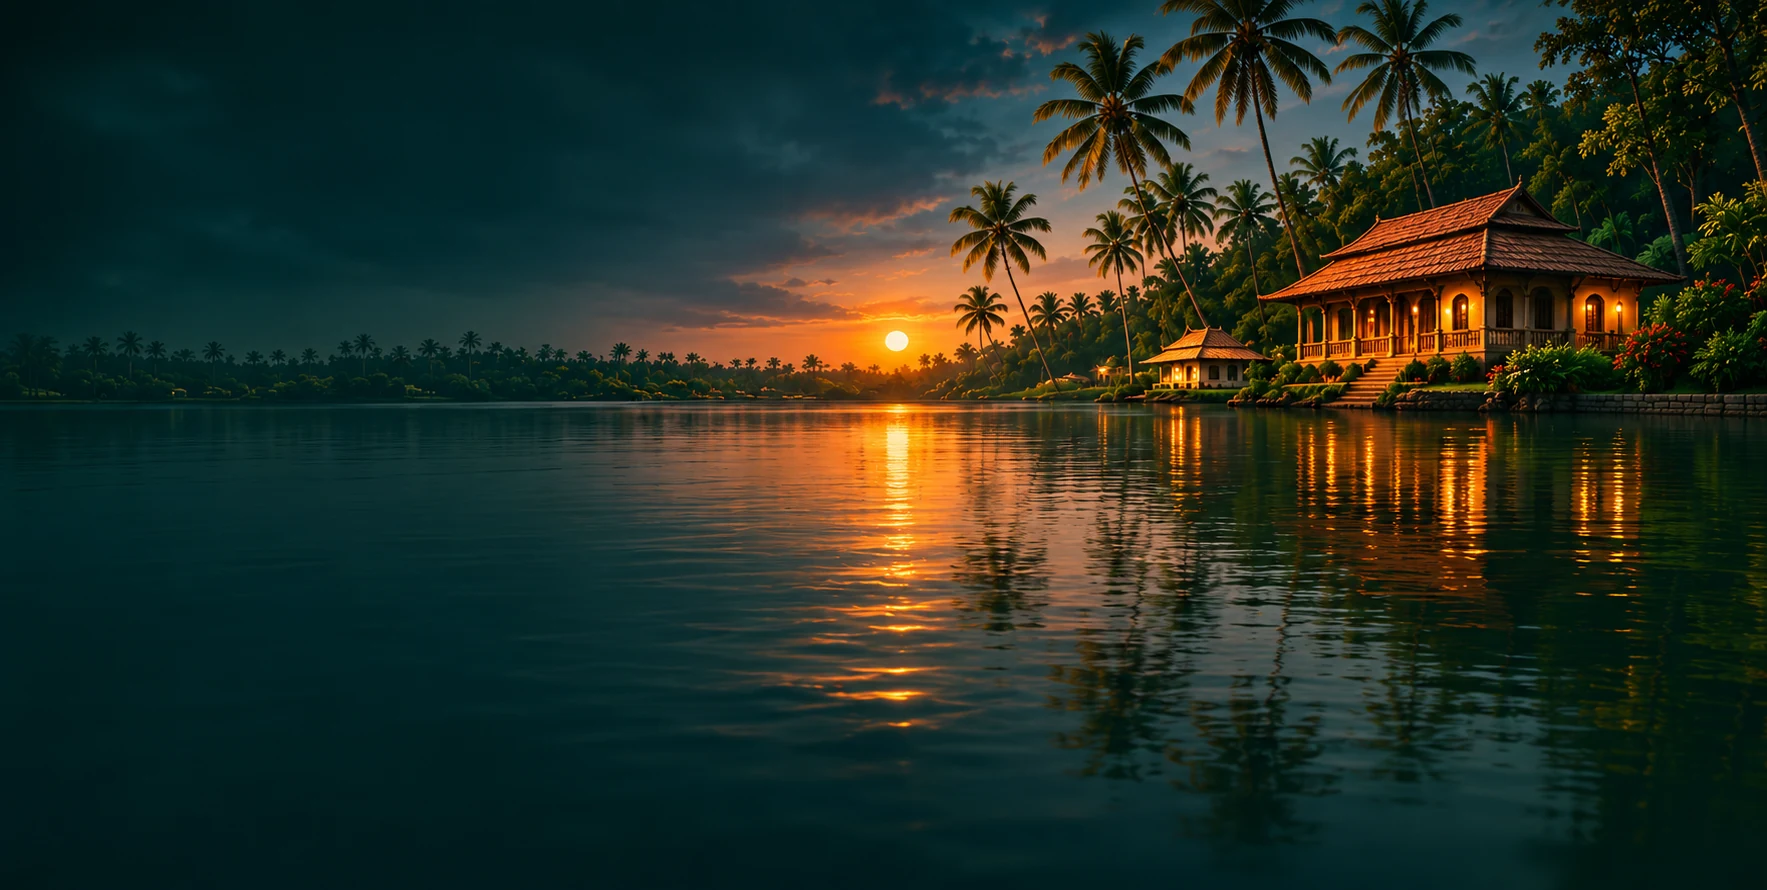
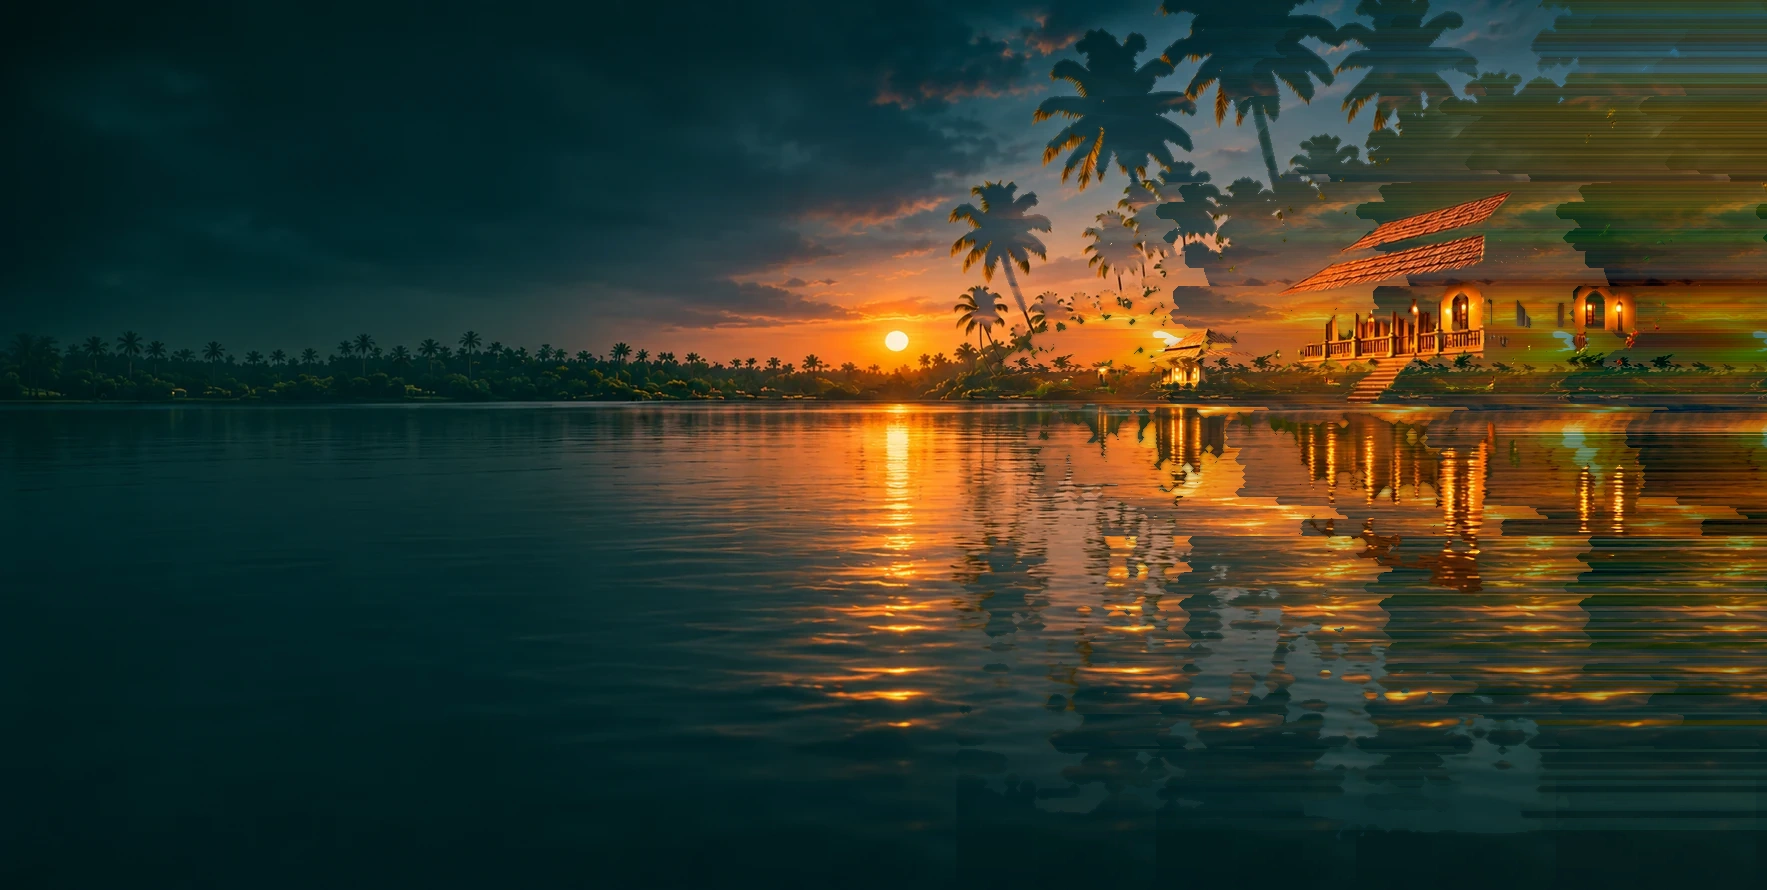
feat(hero): illuminate and extend Kerala sunset backwaters background behind Kathakali

Changed region(s): [[0.5291, 0.0, 1.0, 0.9404]]

diff --git a/src/app/hero-kerala.css b/src/app/hero-kerala.css
@@ -42,8 +42,9 @@
   z-index: 1;
   background:
     url(/mudra/depth-sky.webp) 50% 50%/cover no-repeat,
-    radial-gradient(circle at 50% 38%, #fff6d0 0 .6%, #ffb347 1.4%, rgba(255, 120, 30, .55) 7%, transparent 28%),
-    linear-gradient(180deg, #071a22 0, #0b2a33 28%, #6a3a1c 38%, #0a2a30 44%, #082127 70%, #051519 100%);
+    radial-gradient(ellipse 70% 55% at 60% 40%, rgba(255, 230, 160, .35) 0%, rgba(255, 150, 50, .22) 30%, transparent 65%),
+    radial-gradient(circle at 51% 38%, #fff6d0 0 .6%, #ffb347 1.4%, rgba(255, 120, 30, .55) 7%, transparent 28%),
+    linear-gradient(180deg, #091e26 0%, #102e37 25%, #6a3a1c 38%, #14323a 46%, #091f26 72%, #051519 100%);
   transform: translate3d(calc(var(--mx) * -12px), calc(var(--my) * -8px + var(--ksy, 0) * .12px), 0) scale(1.04);
   animation: none !important;
 }
@@ -52,16 +53,18 @@
   inset: 0;
   z-index: 2;
   background:
-    linear-gradient(90deg, rgba(3, 16, 19, .88) 0, rgba(3, 16, 19, .58) 32%, rgba(3, 16, 19, 0) 58%),
-    linear-gradient(180deg, rgba(3, 12, 15, .55), transparent 22%);
+    linear-gradient(90deg, rgba(3, 16, 19, .88) 0, rgba(3, 16, 19, .55) 28%, transparent 52%),
+    linear-gradient(180deg, rgba(3, 12, 15, .45) 0%, transparent 20%);
 }
 
 .hero.lt-hero.mh .l-sun {
   inset: 0;
   z-index: 2;
   mix-blend-mode: screen;
-  opacity: .8;
-  background: radial-gradient(circle at 51% 38%, rgba(255, 190, 90, .5), transparent 24%);
+  opacity: .85;
+  background:
+    radial-gradient(ellipse 55% 45% at 58% 38%, rgba(255, 200, 110, .45), rgba(255, 140, 40, .2) 28%, transparent 52%),
+    radial-gradient(circle at 51% 38%, rgba(255, 210, 120, .5), transparent 26%);
   animation: sunPulse 6s ease-in-out infinite;
 }
 
